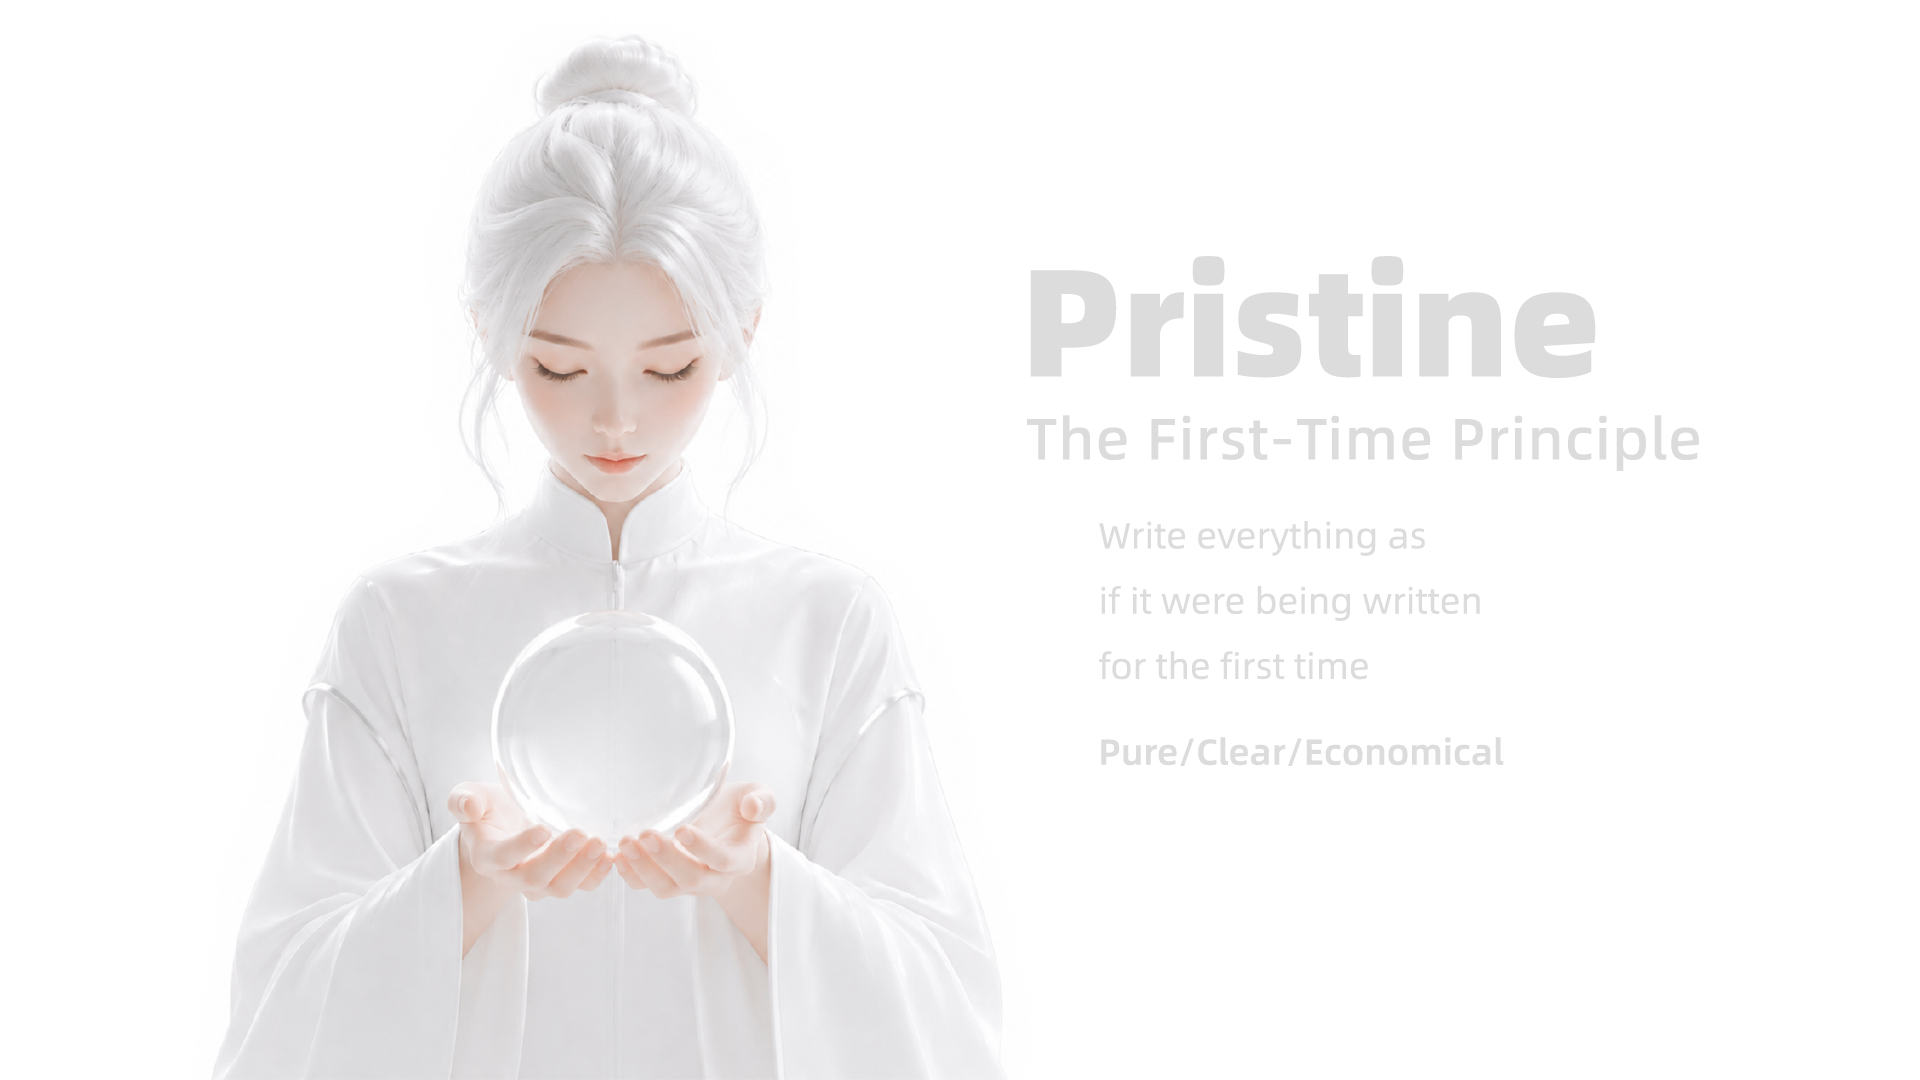
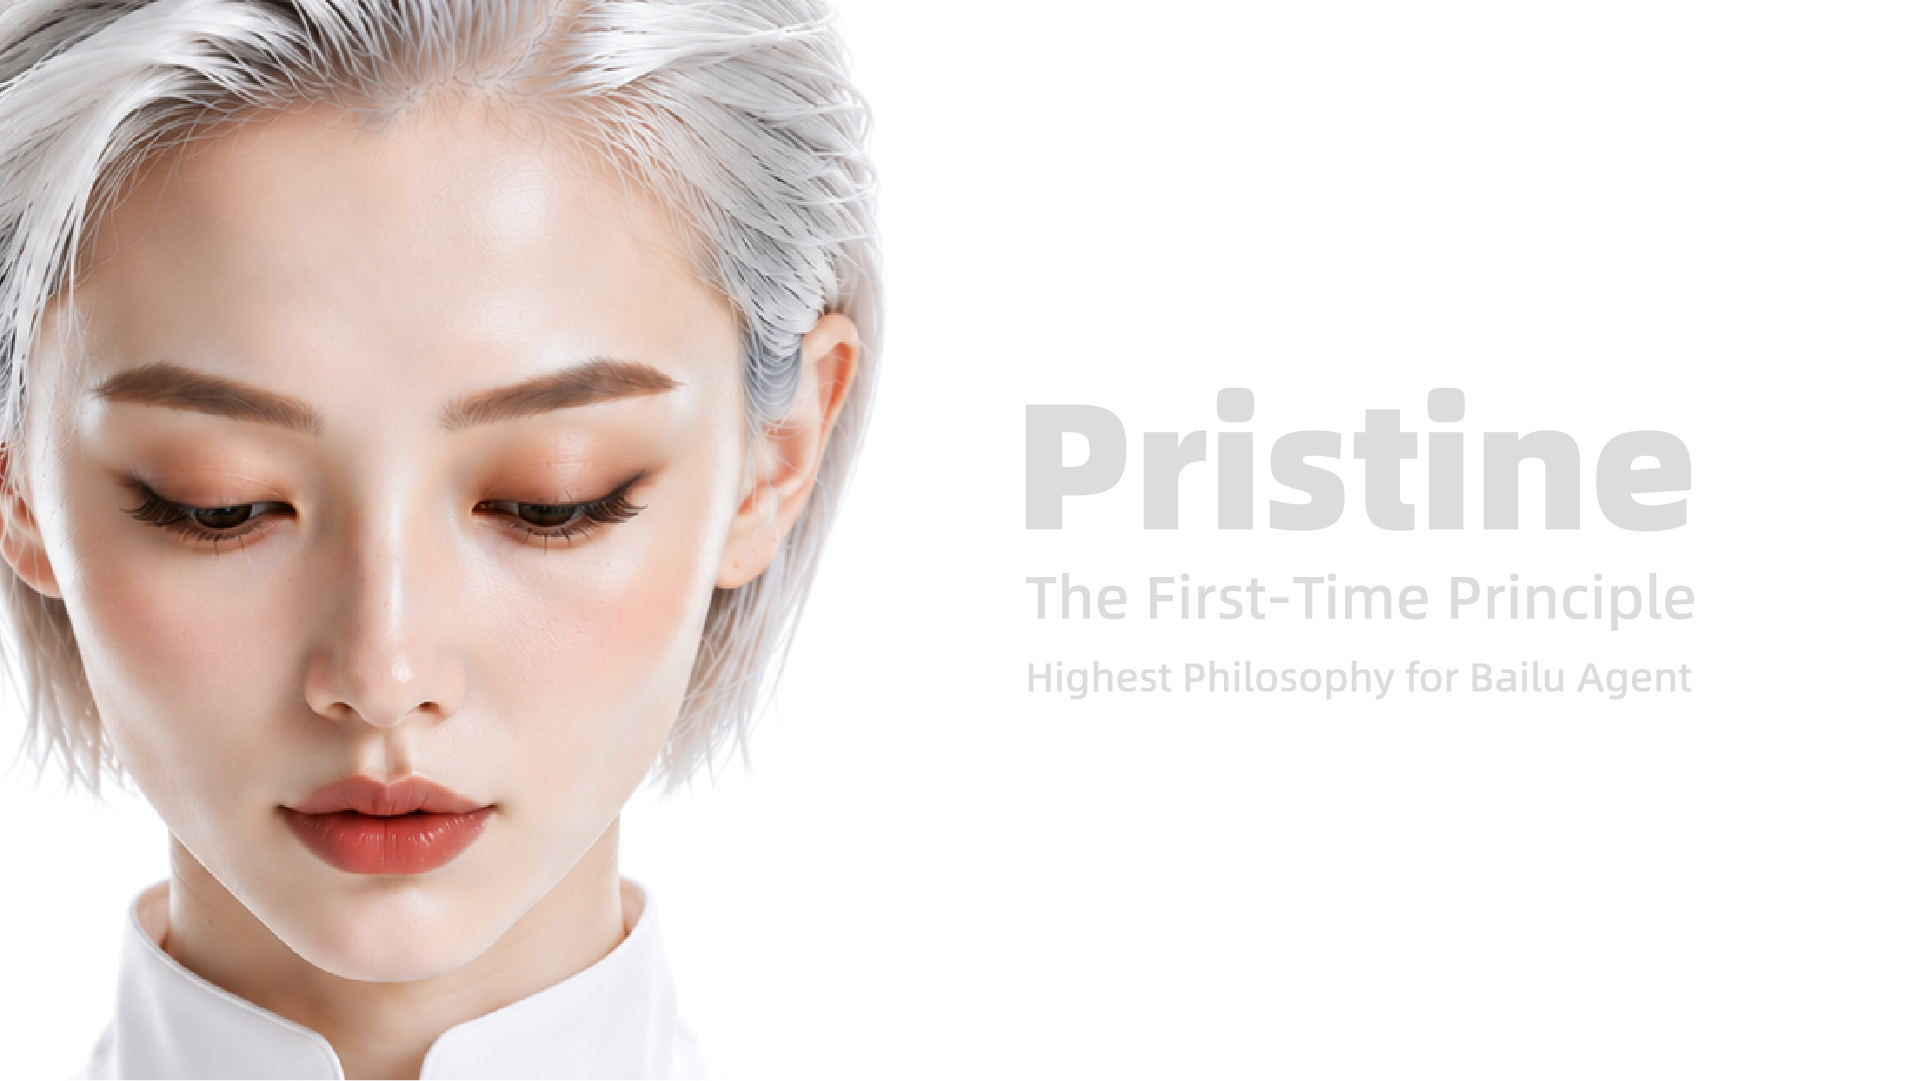
Add adversarial verification layer and update cover
- cover.png: new design
- SKILL.md: add adversarial verification section (self-assessment is not evidence)
- README.md: document pristine-scan companion script
- scripts/pristine-scan.js: mechanical residue signal-word scanner

diff --git a/scripts/pristine-scan.js b/scripts/pristine-scan.js
@@ -1,0 +1,181 @@
+#!/usr/bin/env node
+/**
+ * pristine-scan — adversarial residue scanner for the pristine skill.
+ *
+ * Self-assessment is unreliable: the evaluator is the executor, so asking
+ * "is it pristine?" always leans yes (confirmation bias). This script is
+ * the mechanical check — it scans a codebase for the confession words of
+ * patch piles, residue, and pre-launch migration machinery, and prints
+ * file:line hits. Output is the verdict; self-assessment is not.
+ *
+ * 宁可多报，人工收敛误报 — over-report on purpose, let a human converge
+ * the false positives. A clean scan is the claim; the scan is the evidence.
+ *
+ * Exit code is always 0 — a reminder, not a gate (same as session-watch).
+ *
+ * Usage:
+ *   node pristine-scan.js [dir...]     scan targets (default: current dir)
+ *   node pristine-scan.js --selftest   verify the rule table against probes
+ */
+const fs = require('fs')
+const path = require('path')
+
+// ===== rule table（信号词第一版：宁可多报） =====
+const RULES = [
+  {
+    law: 'law 7',
+    title: 'migration / old-shape machinery',
+    why: 'pre-launch code has no installed base — old→new translation layers are residue',
+    patterns: [
+      /\bmigrat(?:e|ion|ed|ing|es)\b/i,
+      /\bALTER TABLE\b/i,
+      /\blegacy\b/i,
+      /\bbackward[-\s]?compat/i,
+      /\bcompat(?:ibility)?\s+(?:layer|shim|adapter)\b/i,
+      /(?:^|_)(?:old|new)(?:_|$)|\.(?:old|orig|bak)\b/,
+      /old[-\s]?(?:version|logic|code|shape|schema|table|field|column)s?\b/i,
+      /迁移|兼容|历史遗留/,
+      /旧(?:版|结构|表|字段|代码|逻辑|数据|规则|方法|接口|方案)|老(?:版|结构|代码|逻辑|数据|方法)/,
+    ],
+  },
+  {
+    law: 'law 1',
+    title: 'patch-pile signals',
+    why: 'a patch buys time and costs structure — fix the root rule once',
+    patterns: [
+      /\b(?:workaround|hotfix|kludge)\b/i,
+      /\bspecial[- ]case\b/i,
+      /补丁|打补丁|特殊处理|特别处理|临时(?:方案|解决|处理|修复)|兜底|规避/,
+    ],
+  },
+  {
+    law: 'law 3',
+    title: 'residue / leftovers',
+    why: 'no backups, drafts, dead code, commented-out blocks — git keeps history',
+    patterns: [
+      /\b(?:backup|unused|dead|obsolete|deprecated|orphan|leftover)s?\b/i,
+      /备份|副本|死代码|废弃|弃用|不再使用|不再需要/,
+    ],
+  },
+  {
+    law: 'law 2',
+    title: 'comment tells',
+    why: 'comments say why, never what — note: annotations and commented-out code are residue',
+    patterns: [
+      /\bnote\s*:/i,
+    ],
+  },
+]
+
+// 注释掉的可执行代码（仅代码文件，md/yaml 的 # 和 /* 是数据不是注释）
+const COMMENTED_CODE_RE = /^\s*(?:\/\/|#|\/\*|\*)\s*(?:const|let|var|function|async\s+function|class|def\s+|if\s*\(|for\s*\(|while\s*\(|return\s+|import\s+|export\s+|require\s*\(|=>)/
+
+const CODE_EXTS = new Set(['js', 'mjs', 'cjs', 'ts', 'tsx', 'jsx', 'py', 'rb', 'go', 'rs', 'java', 'c', 'cpp', 'h', 'hpp', 'cs', 'php', 'swift', 'kt', 'sh', 'bash', 'zsh', 'sql', 'vue', 'svelte'])
+const TEXT_EXTS = new Set([...CODE_EXTS, 'md', 'markdown', 'txt', 'json', 'yaml', 'yml', 'toml', 'ini', 'css', 'scss', 'less', 'html', 'htm'])
+
+const SKIP_DIR_RE = /(^|\/)(node_modules|dist|build|coverage|\.git|\.next|\.nuxt|\.output|\.cache|\.venv|venv|__pycache__|vendor|target)(\/|$)/
+const SKIP_FILE_RE = /(?:^|\/)(?:package-lock\.json|pnpm-lock\.yaml|yarn\.lock|Cargo\.lock|composer\.lock|\.DS_Store|pristine-scan\.js)$|\.min\.(?:js|css)$/
+
+const MAX_FILE_SIZE = 2 * 1024 * 1024
+
+function scanFile(file, hits) {
+  const ext = path.extname(file).slice(1).toLowerCase()
+  if (!TEXT_EXTS.has(ext) || SKIP_FILE_RE.test(file)) return
+  let size
+  try {
+    size = fs.statSync(file).size
+  } catch {
+    return
+  }
+  if (size > MAX_FILE_SIZE) return
+
+  const rel = path.relative(process.cwd(), file).split(path.sep).join('/')
+  const lines = fs.readFileSync(file, 'utf8').split('\n')
+  for (let i = 0; i < lines.length; i++) {
+    const line = lines[i]
+    for (const rule of RULES) {
+      if (rule.patterns.some(re => re.test(line))) {
+        hits.push({ file: rel, line: i + 1, law: rule.law, title: rule.title, text: line.trim() })
+      }
+    }
+    if (CODE_EXTS.has(ext) && COMMENTED_CODE_RE.test(line)) {
+      hits.push({ file: rel, line: i + 1, law: 'law 3', title: 'commented-out code', text: line.trim() })
+    }
+  }
+}
+
+function walk(dir, hits) {
+  for (const entry of fs.readdirSync(dir, { withFileTypes: true })) {
+    if (entry.isDirectory()) {
+      if (SKIP_DIR_RE.test('/' + entry.name + '/')) continue
+      walk(path.join(dir, entry.name), hits)
+    } else if (entry.isFile()) {
+      scanFile(path.join(dir, entry.name), hits)
+    }
+  }
+}
+
+function report(hits, targets) {
+  console.log('pristine-scan — adversarial residue scan')
+  console.log(`targets: ${targets.join(', ')}`)
+  for (const rule of RULES) {
+    const list = hits.filter(h => h.law === rule.law)
+    console.log(`\n── ${rule.law} · ${rule.title}（${list.length}）`)
+    if (list.length === 0) continue
+    console.log(`   ${rule.why}`)
+    for (const h of list) {
+      const t = h.text.length > 110 ? h.text.slice(0, 107) + '…' : h.text
+      console.log(`   ${h.file}:${h.line}  ${t}`)
+    }
+  }
+  console.log(`\n${hits.length} hits — 以输出为准，不以自评为准；宁可多报，人工收敛误报。`)
+}
+
+// ===== self-test：规则表自身也不自评，用正反探针验证 =====
+const SELFTEST = [
+  { law: 'law 7', pos: ['migrate to new schema', 'ALTER TABLE students', 'legacy code', 'backward-compat layer', 'compat shim', 'old_logic', 'file.old', '迁移旧版', '兼容历史遗留结构'], neg: ['handle errors gracefully', 'immigration status'] },
+  { law: 'law 1', pos: ['workaround for now', 'hotfix applied', 'special case if', '特殊处理一下', '临时方案', '兜底策略'], neg: ['root cause fixed'] },
+  { law: 'law 3', pos: ['backup file', 'dead code', 'deprecated api', '备份文件', '废弃字段', '不再使用'], neg: ['keep history in git'] },
+  { law: 'law 2', pos: ['note: this is fragile'], neg: ['notes are stored in the table'] },
+]
+
+function selftest() {
+  let fail = 0
+  for (const c of SELFTEST) {
+    const rules = RULES.filter(r => r.law === c.law)
+    for (const s of c.pos) {
+      if (!rules.some(r => r.patterns.some(re => re.test(s)))) { console.log(`FAIL  ${c.law} pos: ${s}`); fail++ }
+    }
+    for (const s of c.neg) {
+      if (rules.some(r => r.patterns.some(re => re.test(s)))) { console.log(`FAIL  ${c.law} neg: ${s}`); fail++ }
+    }
+  }
+  for (const s of ['  // const x = 1', '# function old() {}', '/* if (a) { */']) {
+    if (!COMMENTED_CODE_RE.test(s)) { console.log(`FAIL  commented-code pos: ${s}`); fail++ }
+  }
+  for (const s of ['// 注释说明', 'const x = 1', '/* 普通注释 */', '# 普通注释']) {
+    if (COMMENTED_CODE_RE.test(s)) { console.log(`FAIL  commented-code neg: ${s}`); fail++ }
+  }
+  console.log(fail ? `selftest: ${fail} failure(s)` : 'selftest: all rules pass')
+  process.exit(fail ? 1 : 0)
+}
+
+const args = process.argv.slice(2)
+if (args.includes('--selftest')) selftest()
+
+const targets = args.filter(a => !a.startsWith('-'))
+if (targets.length === 0) targets.push('.')
+
+const hits = []
+for (const t of targets) {
+  if (!fs.existsSync(t)) {
+    console.error(`pristine-scan: target not found: ${t}`)
+    continue
+  }
+  const st = fs.statSync(t)
+  if (st.isFile()) scanFile(t, hits)
+  else walk(t, hits)
+}
+
+hits.sort((a, b) => a.file.localeCompare(b.file) || a.line - b.line)
+report(hits, targets)

diff --git a/SKILL.md b/SKILL.md
@@ -1,13 +1,13 @@
 ---
 name: pristine
 aliases:
-  - 纯净原则
+  - 纯净自检
   - first-time
 description: >
   Enforce the First-Time Principle: write every line of code, every doc, and
   every memory entry as if it were being written for the first time — no
   patches, no "what"-comments, no leftovers, no local/deployed drift.
-  Responds to all of its names: "pristine", "纯净原则", or "first-time". MUST
+  Responds to all of its names: "pristine", "纯净自检", or "first-time". MUST
   trigger when starting any implementation, refactor, or bug fix, and whenever
   the urge arises to "just patch it", "just add a special case", "just wrap it
   in a flag", "leave this commented out", or "fix it quickly on the server".
@@ -146,6 +146,24 @@ machinery. Writing them before launch is writing residue.
 The tell: any code, comment, or file that implies "previously",
 "legacy", "old", "compat", "backward", "_old"/"_new", or a migration
 step is a confession — in a pre-launch codebase it should not exist.
+
+## Adversarial verification — self-assessment is not evidence
+
+Self-checks fail by construction: the evaluator is the executor, so asking
+"is it pristine?" always leans yes (confirmation bias), and the trigger
+words never appear in the agent's head at the moment of patching. The
+mechanical answer is the companion script:
+
+```
+node scripts/pristine-scan.js <target-dir>    # scans for residue signal words
+node scripts/pristine-scan.js --selftest      # verifies the rule table itself
+```
+
+The verdict is the output, not the self-assessment. Over-report on purpose,
+converge false positives by hand: business fallback rules, test seeds, and
+documentation that quotes the signal words are noise; code that carries an
+old shape forward, compatibility layers, dead branches, and commented-out
+code are real. A clean scan is the claim, the scan is the evidence.
 
 ## Why it matters for AI-assisted development
 

diff --git a/README.md b/README.md
@@ -89,6 +89,26 @@ The script reads the session transcript path from the hook's stdin — no
 session discovery, no hardcoded paths, exit code always 0 (a reminder, not
 a gate).
 
+## Pristine scan (companion)
+
+[`scripts/pristine-scan.js`](scripts/pristine-scan.js) backs the
+**adversarial verification** layer of the skill: self-assessment is not
+evidence (the evaluator is the executor), so a clean claim needs a
+mechanical check. It scans a codebase for the signal words of patch piles,
+residue, and pre-launch migration machinery — `migrate`/`ALTER TABLE`/
+`legacy`/`_old`/`_new`, `workaround`/`hotfix`/`special case`, `backup`/
+`dead`/`obsolete`, `note:` annotations and commented-out code — and prints
+`file:line` hits grouped by law.
+
+```bash
+node scripts/pristine-scan.js <target-dir>   # scan a codebase
+node scripts/pristine-scan.js --selftest     # verify the rule table itself
+```
+
+Over-report on purpose, converge false positives by hand (business
+fallback rules and docs that quote the signal words are noise). Exit code
+always 0 — a reminder, not a gate.
+
 ## Examples
 
 See [examples/before-after.md](examples/before-after.md) for
